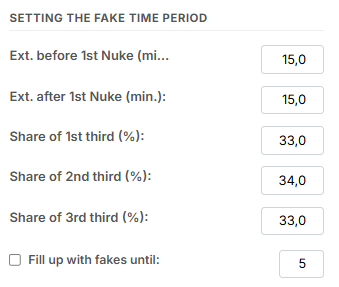
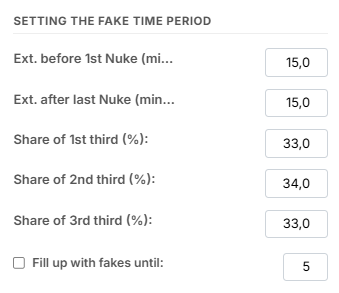
Deployed 3b5558e with MkDocs version: 1.6.1

diff --git a/off-planner/tab2-angriffsplanung/index.html b/off-planner/tab2-angriffsplanung/index.html
@@ -1886,10 +1886,14 @@ und die Verteilung der Begleitfakes rund um die 1. Off:</p>
   <strong>„Anteil 3. Drittel (%)"</strong> — das gesamte Fake-Zeitfenster wird
   intern in <strong>drei gleich große Zeitdrittel</strong> geteilt. Hier legst du
   fest, welcher Anteil der Fakes prozentual in welches Drittel fällt.
-  Eine <strong>gleichmäßige Verteilung</strong> (z. B. 33/34/33) streut die Fakes
-  über das gesamte Fenster; eine <strong>ungleichmäßige Verteilung</strong> (z. B.
-  50/30/20) konzentriert sie z. B. <strong>vor</strong> der 1. Off. Die drei Werte
-  sollten in Summe 100 % ergeben.</li>
+  Damit steuerst du im Grunde, <strong>an welcher Position innerhalb der
+  Befehlsabfolge</strong> die Begleitfakes überwiegend auftauchen — also ob
+  sie eher <strong>vor</strong> den scharfen Offs eintreffen, sich <strong>mit ihnen
+  vermischen</strong> oder erst <strong>danach</strong> folgen. Eine <strong>gleichmäßige
+  Verteilung</strong> (z. B. 33/34/33) streut die Fakes über das gesamte
+  Fenster; eine <strong>ungleichmäßige Verteilung</strong> (z. B. 50/30/20)
+  konzentriert sie z. B. <strong>vor</strong> der 1. Off. Die drei Werte sollten in
+  Summe 100 % ergeben.</li>
 <li><strong>„Mit Fakes auffüllen bis"</strong> — die Anzahl an Befehlen, mit denen
   ein Ziel innerhalb dieser Kategorie möglichst <strong>immer belegt</strong> sein
   soll. Sinnvoll, wenn du möchtest, dass am Ende auf jedes Ziel
@@ -1901,6 +1905,10 @@ und die Verteilung der Begleitfakes rund um die 1. Off:</p>
 </ul>
 <h2 id="10-abstande-der-offs-und-kattasplits">10. Abstände der Offs und Kattasplits<a class="headerlink" href="#10-abstande-der-offs-und-kattasplits" title="Permanent link">¶</a></h2>
 <p><a class="glightbox" data-type="image" data-width="auto" data-height="auto" href="../../assets/nuke-planning-tool/tab2_11_distance_between_for_nukes_or_c-splits.png" data-title="Abstände der Offs und Kattasplits" data-desc-position="bottom"><img alt="Abstände der Offs und Kattasplits" class="screenshot" src="../../assets/nuke-planning-tool/tab2_11_distance_between_for_nukes_or_c-splits.png"></a></p>
+<p>Im Bereich <strong>„Abstand Kattasplits zur letzten Off"</strong> legst du fest, wie
+weit die Kattasplits zeitlich von der letzten Off entfernt eintreffen
+sollen — mit den Feldern <strong>„Min-Abstand (Min)"</strong> und <strong>„Max-Abstand
+(Min)"</strong>.</p>
 <p>Im Bereich <strong>„Abstände der Offs (Min.)"</strong> steuerst du, wie eng oder
 weit aufeinanderfolgende Offs auf einem Ziel <strong>zeitlich
 beieinanderliegen</strong> sollen. Für jedes Paar aufeinanderfolgender Offs
@@ -1910,21 +1918,30 @@ gibst du jeweils einen <strong>Min-</strong> und <strong>Max-Wert</strong> in Mi
 <li><strong>Off 2 → 3</strong> — Abstand der <strong>3. Off</strong> zur <strong>2. Off</strong>.</li>
 <li>usw. — entsprechend für alle weiteren Offs.</li>
 </ul>
-<p><strong>Beispiel:</strong> Trägst du für <strong>Off 1 → 2</strong> <strong>Min = 1</strong> und <strong>Max = 5</strong>
-ein, plant das Tool die zweite Off so, dass sie zwischen <strong>einer</strong> und
-<strong>fünf Minuten</strong> nach der ersten Off auf dem Ziel eintrifft. So
-vermeidest du, dass mehrere Offs <strong>exakt gleichzeitig</strong> ankommen, und
-gibst der Verteidigung gleichzeitig nur <strong>wenig Reaktionszeit</strong>.</p>
-<p>Im Bereich <strong>„Abstand Kattasplits zur letzten Off"</strong> legst du fest, wie
-weit die Kattasplits zeitlich von der letzten Off entfernt eintreffen
-sollen — mit den Feldern <strong>„Min-Abstand (Min)"</strong> und <strong>„Max-Abstand
-(Min)"</strong>.</p>
+<p><strong>Beispiel 1 — Verteidigung wenig Reaktionszeit lassen:</strong> Trägst du
+für <strong>Off 1 → 2</strong> <strong>Min = 1</strong> und <strong>Max = 5</strong> ein, plant das Tool die
+zweite Off so, dass sie zwischen <strong>einer</strong> und <strong>fünf Minuten</strong> nach
+der ersten Off auf dem Ziel eintrifft. So vermeidest du, dass mehrere
+Offs <strong>exakt gleichzeitig</strong> ankommen, und gibst der Verteidigung
+gleichzeitig nur <strong>wenig Reaktionszeit</strong>.</p>
+<p><strong>Beispiel 2 — Verspätungen beim Abschicken einplanen:</strong> Großzügigere
+Off-Abstände sind insbesondere dann sinnvoll, wenn du
+<strong>Nachlässigkeiten beim Abschicken</strong> der Incs schon bei der Planung
+berücksichtigen willst. Angenommen, du planst eine <strong>Katta-Aktion</strong>:
+Pro Zieldorf sind <strong>2 Offs</strong> und <strong>5 K-Splits</strong> verplant, der
+<strong>Abstand der K-Splits zur letzten Off</strong> wurde auf <strong>3 Minuten</strong>
+gesetzt. Wenn nun der Abstand zwischen <strong>1. und 2. Off</strong> sehr gering
+ist, kann es durch <strong>verspätetes Abschicken</strong> passieren, dass die
+Offs <strong>hinter den K-Splits</strong> eintreffen. Setzt du den Abstand
+<strong>Off 1 → 2</strong> stattdessen auf z. B. <strong>10 Minuten</strong>, würde die 1. Off
+selbst bei <strong>5 Minuten Verspätung beider Offs</strong> noch sicher <strong>vor</strong>
+den K-Splits eintreffen.</p>
 <h2 id="11-priorisierung-off-kategorien">11. Priorisierung Off-Kategorien<a class="headerlink" href="#11-priorisierung-off-kategorien" title="Permanent link">¶</a></h2>
 <p><a class="glightbox" data-type="image" data-width="auto" data-height="auto" href="../../assets/nuke-planning-tool/tab2_12_prioritizing_nuke_categories.png" data-title="Priorisierung Off-Kategorien" data-desc-position="bottom"><img alt="Priorisierung Off-Kategorien" class="screenshot" src="../../assets/nuke-planning-tool/tab2_12_prioritizing_nuke_categories.png"></a></p>
 <p>Im Bereich <strong>„Priorisierung Off-Kategorien"</strong> legst du fest, aus
 welchen Herkunfts-Kategorien die Offs bevorzugt verplant werden sollen.
-Verfügbare Kategorien sind z. B. <em>Verbleibende Dörfer</em>, <em>Dörfer &gt;500
-Axt</em>, <em>&gt;1000 Axt</em>, <em>&gt;2000 Axt</em>, …, <em>&gt;6000 Axt</em>. Verschiebe die
+Verfügbare Kategorien sind z. B. <em>Dörfer &gt;500 Axt</em>, <em>&gt;1000 Axt</em>,
+<em>&gt;2000 Axt</em>, …, <em>&gt;6000 Axt</em>. Verschiebe die
 gewünschten Kategorien über die Pfeil-Buttons in die rechte Liste
 <strong>„Priorisiert"</strong> und sortiere sie nach Priorität.</p>
 <p>Die Checkbox <strong>„Strikte Priorisierung (Reihenfolge erzwingen)"</strong> legt

diff --git a/en/off-planner/tab2-angriffsplanung/index.html b/en/off-planner/tab2-angriffsplanung/index.html
@@ -1880,11 +1880,14 @@ window and the distribution of accompanying fakes around the 1st nuke:</p>
   nuke the fake period may end.</li>
 <li><strong>Share of 1st/2nd/3rd third (%)</strong> — the entire fake time window is
   internally divided into <strong>three equal-sized time thirds</strong>. Here you
-  define what percentage of the fakes falls into each third. An <strong>even
-  distribution</strong> (e.g. 33/34/33) spreads the fakes across the whole
-  window; an <strong>uneven distribution</strong> (e.g. 50/30/20) concentrates them
-  for example <strong>before</strong> the 1st nuke. The three values should add up
-  to 100 %.</li>
+  define what percentage of the fakes falls into each third. This is
+  essentially how you control <strong>where in the overall command sequence</strong>
+  the accompanying fakes mainly appear — i.e. whether they arrive
+  <strong>before</strong> the real nukes, <strong>mixed in with them</strong>, or <strong>after</strong> them.
+  An <strong>even distribution</strong> (e.g. 33/34/33) spreads the fakes across the
+  whole window; an <strong>uneven distribution</strong> (e.g. 50/30/20) concentrates
+  them for example <strong>before</strong> the 1st nuke. The three values should add
+  up to 100 %.</li>
 <li><strong>Fill up with fakes until</strong> — the number of commands per target you
   want each target to <strong>always carry</strong> in this category. Useful when
   you want every target to end up with the <strong>same number of incs</strong>. If
@@ -1895,6 +1898,9 @@ window and the distribution of accompanying fakes around the 1st nuke:</p>
 </ul>
 <h2 id="10-distances-between-nukes-and-c-splits">10. Distances between nukes and C-Splits<a class="headerlink" href="#10-distances-between-nukes-and-c-splits" title="Permanent link">¶</a></h2>
 <p><a class="glightbox" data-type="image" data-width="auto" data-height="auto" href="../../../assets/nuke-planning-tool/tab2_11_distance_between_for_nukes_or_c-splits.png" data-title="Distances between nukes and C-Splits" data-desc-position="bottom"><img alt="Distances between nukes and C-Splits" class="screenshot" src="../../../assets/nuke-planning-tool/tab2_11_distance_between_for_nukes_or_c-splits.png"></a></p>
+<p>In the <strong>"Distance of C-Splits to last Nuke"</strong> area you define how far
+the catapult-splits should arrive in time after the last nuke
+(<strong>Min-Distance</strong> / <strong>Max-Distance</strong> in minutes).</p>
 <p>In the <strong>"Distance between Nukes (minutes)"</strong> area you control how
 close or far apart consecutive nukes on a target should <strong>arrive in
 time</strong>. For each pair of consecutive nukes you enter a <strong>min</strong> and
@@ -1904,20 +1910,28 @@ time</strong>. For each pair of consecutive nukes you enter a <strong>min</stron
 <li><strong>Nuke 2 → 3</strong> — the distance of the <strong>3rd nuke</strong> to the <strong>2nd nuke</strong>.</li>
 <li>and so on — same scheme for all further nukes.</li>
 </ul>
-<p><strong>Example:</strong> with <strong>Min = 1</strong> and <strong>Max = 5</strong> for <strong>Nuke 1 → 2</strong>, the
-second nuke is planned to arrive between <strong>one</strong> and <strong>five minutes</strong>
-after the first nuke on the target. This avoids multiple nukes hitting
-at <strong>exactly the same moment</strong> while still giving the defence only
-<strong>very little reaction time</strong>.</p>
-<p>In the <strong>"Distance of C-Splits to last Nuke"</strong> area you define how far
-the catapult-splits should arrive in time after the last nuke
-(<strong>Min-Distance</strong> / <strong>Max-Distance</strong> in minutes).</p>
+<p><strong>Example 1 — Giving the defence little reaction time:</strong> with
+<strong>Min = 1</strong> and <strong>Max = 5</strong> for <strong>Nuke 1 → 2</strong>, the second nuke is
+planned to arrive between <strong>one</strong> and <strong>five minutes</strong> after the first
+nuke on the target. This avoids multiple nukes hitting at <strong>exactly
+the same moment</strong> while still giving the defence only <strong>very little
+reaction time</strong>.</p>
+<p><strong>Example 2 — Accounting for late sending:</strong> More generous nuke
+spacing is especially useful when you want to factor <strong>late sending</strong>
+of the incs into the planning itself. Imagine a <strong>catapult action</strong>:
+per target you plan <strong>2 nukes</strong> and <strong>5 C-Splits</strong>, and the
+<strong>distance of the C-Splits to the last nuke</strong> is set to <strong>3 minutes</strong>.
+If the distance between the <strong>1st and 2nd nuke</strong> is very small, a
+<strong>late send</strong> can cause the nukes to actually arrive <strong>behind the
+C-Splits</strong>. If you instead set <strong>Nuke 1 → 2</strong> to e.g. <strong>10 minutes</strong>,
+the 1st nuke would still arrive safely <strong>before</strong> the C-Splits even
+if <strong>both nukes were sent 5 minutes late</strong>.</p>
 <h2 id="11-prioritizing-nuke-categories">11. Prioritizing Nuke-Categories<a class="headerlink" href="#11-prioritizing-nuke-categories" title="Permanent link">¶</a></h2>
 <p><a class="glightbox" data-type="image" data-width="auto" data-height="auto" href="../../../assets/nuke-planning-tool/tab2_12_prioritizing_nuke_categories.png" data-title="Prioritizing Nuke-Categories" data-desc-position="bottom"><img alt="Prioritizing Nuke-Categories" class="screenshot" src="../../../assets/nuke-planning-tool/tab2_12_prioritizing_nuke_categories.png"></a></p>
 <p>In the <strong>"Prioritizing Nuke-Categories"</strong> area you define which source
 categories should preferably be used for planning nukes. Available
-categories include <em>Remaining villages</em>, <em>Villages &gt;500 axe</em>, <em>&gt;1000
-axe</em>, <em>&gt;2000 axe</em>, …, <em>&gt;6000 axe</em>. Move the desired categories into the
+categories include <em>Villages &gt;500 axe</em>, <em>&gt;1000 axe</em>, <em>&gt;2000 axe</em>, …,
+<em>&gt;6000 axe</em>. Move the desired categories into the
 right list <strong>"Prioritized"</strong> via the arrow buttons and sort them by
 priority.</p>
 <p>The checkbox <strong>"Strict prioritization (enforcing order)"</strong> controls how